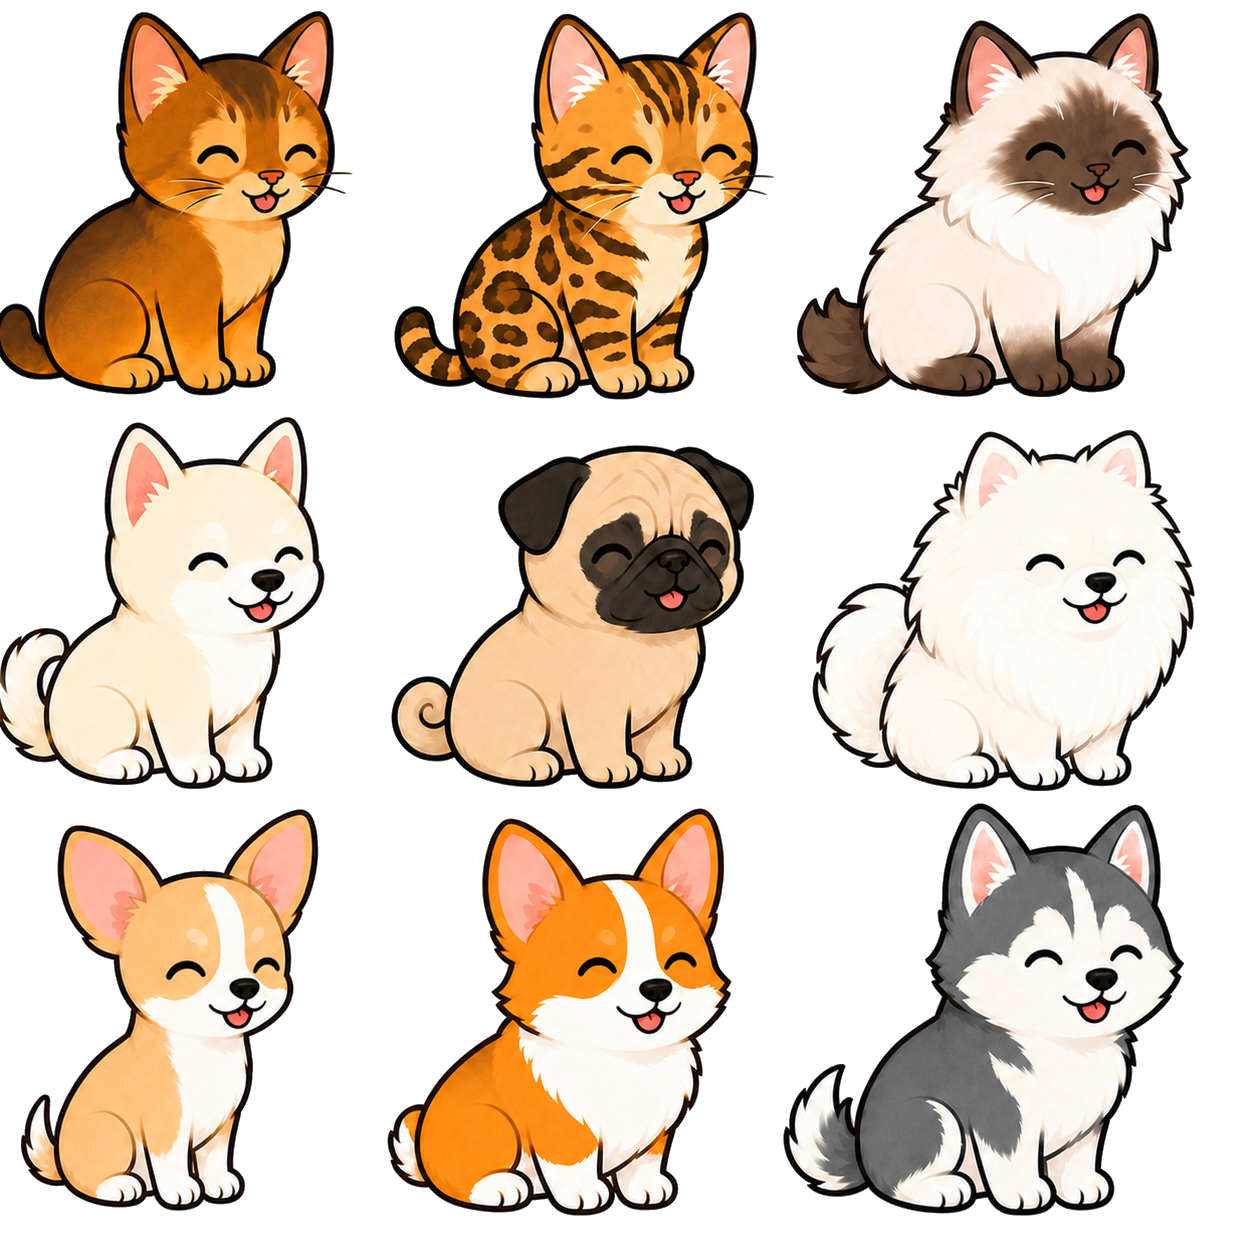
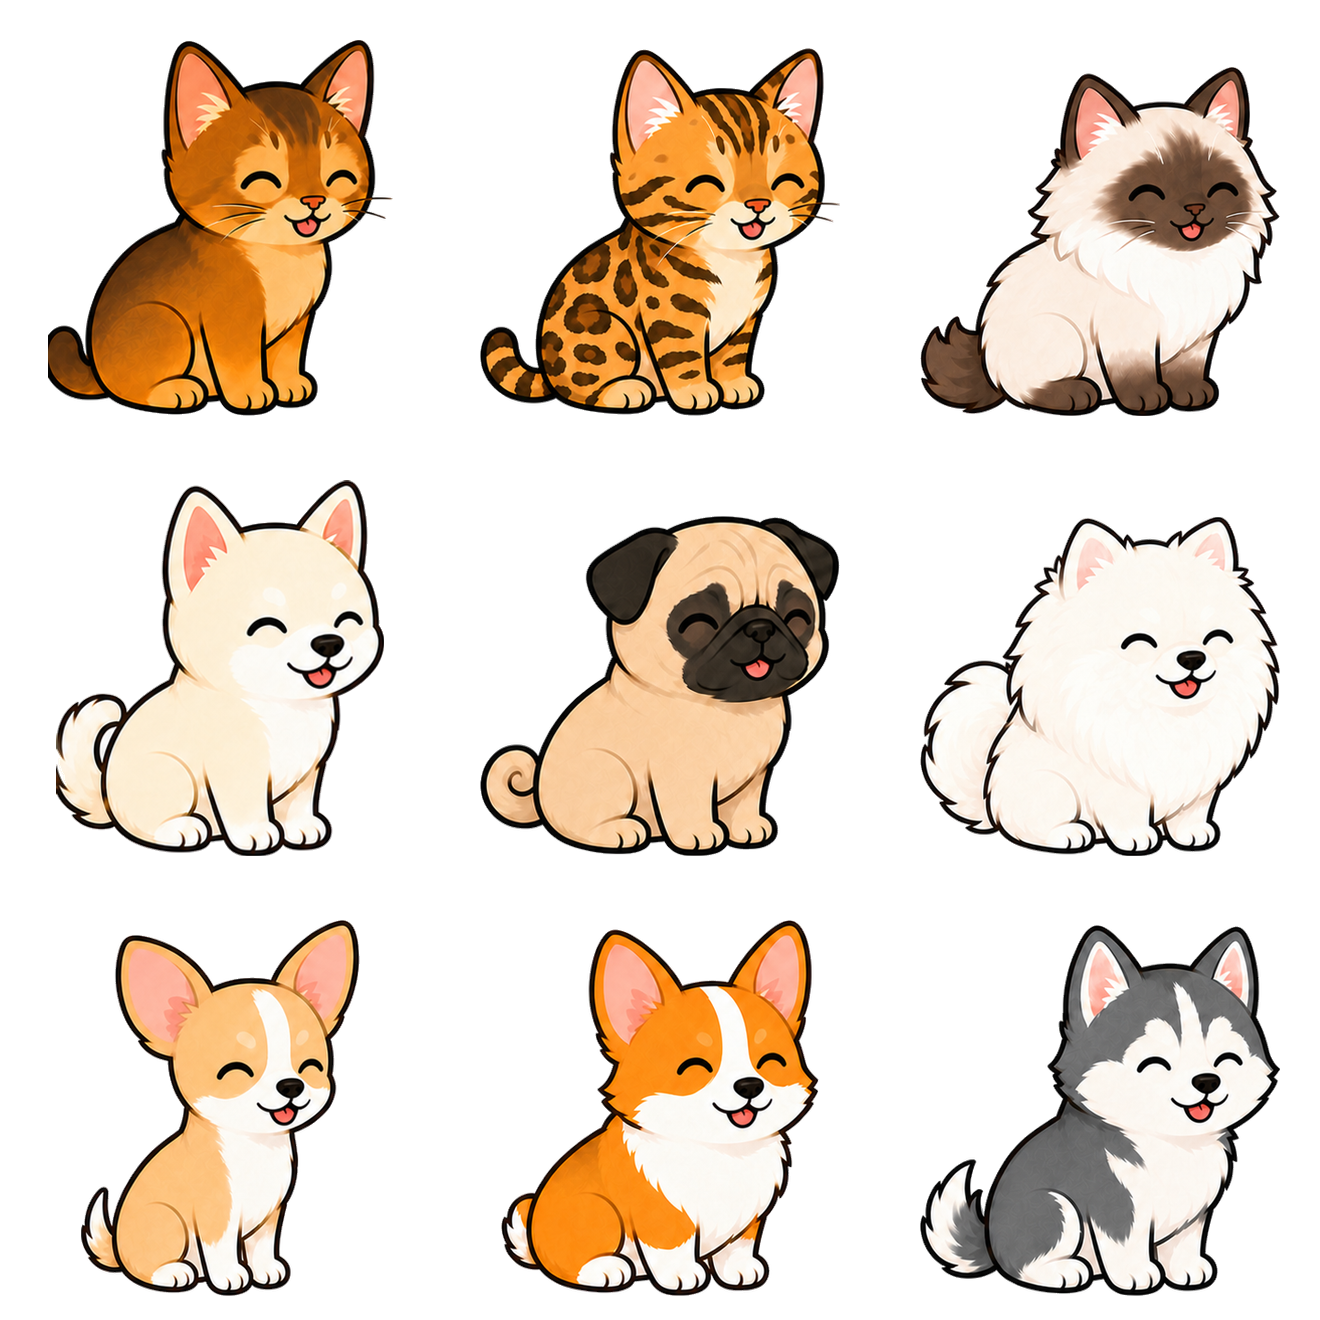
Fix character reactions and sprite framing

diff --git a/app.js b/app.js
@@ -715,19 +715,19 @@ function drawShopSpritePreview(canvas, type, item) {
       return;
     }
 
-    const padding = 2;
+    const padding = 8;
     const cropX = Math.max(0, bounds.minX - padding);
     const cropY = Math.max(0, bounds.minY - padding);
     const cropWidth = Math.min(sourceWidth, bounds.maxX + padding + 1) - cropX;
     const cropHeight = Math.min(sourceHeight, bounds.maxY + padding + 1) - cropY;
     const context = canvas.getContext("2d");
-    const maxWidth = canvas.width * 0.74;
-    const maxHeight = canvas.height * 0.84;
+    const maxWidth = canvas.width * 0.7;
+    const maxHeight = canvas.height * 0.8;
     const scale = Math.min(maxWidth / cropWidth, maxHeight / cropHeight);
     const drawWidth = cropWidth * scale;
     const drawHeight = cropHeight * scale;
     const drawX = (canvas.width - drawWidth) / 2;
-    const drawY = canvas.height - drawHeight - canvas.height * 0.035;
+    const drawY = canvas.height - drawHeight - canvas.height * 0.05;
     const flip = type === "companion" && (item.col === 1 || item.col === 2) && item.row === 0;
 
     context.clearRect(0, 0, canvas.width, canvas.height);
@@ -2927,11 +2927,15 @@ function prepareExpressionArtwork() {
     }
 
     if (!EXPRESSION_ARTWORK.good[atlasId] && isArtworkReady(atlas.happy)) {
-      EXPRESSION_ARTWORK.good[atlasId] = createMaskedArtwork(atlas.happy, atlas.neutral);
+      EXPRESSION_ARTWORK.good[atlasId] = atlasId === "extra"
+        ? atlas.happy
+        : createMaskedArtwork(atlas.happy, atlas.neutral);
     }
 
     if (!EXPRESSION_ARTWORK.bad[atlasId] && isArtworkReady(atlas.hurt)) {
-      EXPRESSION_ARTWORK.bad[atlasId] = createMaskedArtwork(atlas.hurt, atlas.neutral);
+      EXPRESSION_ARTWORK.bad[atlasId] = atlasId === "extra"
+        ? atlas.hurt
+        : createMaskedArtwork(atlas.hurt, atlas.neutral);
     }
   });
 }
@@ -3801,8 +3805,14 @@ function drawCharacterArtwork(width, height, rotation, reaction) {
     return false;
   }
 
-  const drawWidth = width * 1.28;
-  const drawHeight = height * 1.46;
+  const defaultDrawWidth = width * 1.28;
+  const defaultDrawHeight = height * 1.46;
+  const sourceWidth = (atlas.neutral.naturalWidth || atlas.neutral.width) / atlas.columns;
+  const sourceHeight = (atlas.neutral.naturalHeight || atlas.neutral.height) / atlas.rows;
+  const sourceAspect = sourceWidth / sourceHeight;
+  const defaultArea = defaultDrawWidth * defaultDrawHeight;
+  const drawWidth = atlasId === "extra" ? Math.sqrt(defaultArea * sourceAspect) : defaultDrawWidth;
+  const drawHeight = atlasId === "extra" ? drawWidth / sourceAspect : defaultDrawHeight;
   const drawLeft = -drawWidth / 2;
   const drawTop = height * 0.58 - drawHeight;
 
@@ -3815,16 +3825,18 @@ function drawCharacterArtwork(width, height, rotation, reaction) {
   ctx.save();
   applyCharacterMotion(motion, true);
   ctx.rotate(rotation);
-  drawAtlasCell(
-    atlas.neutral,
-    character,
-    atlas.columns,
-    atlas.rows,
-    drawLeft,
-    drawTop,
-    drawWidth,
-    drawHeight,
-  );
+  if (!reactionArtwork || atlasId === "main") {
+    drawAtlasCell(
+      atlas.neutral,
+      character,
+      atlas.columns,
+      atlas.rows,
+      drawLeft,
+      drawTop,
+      drawWidth,
+      drawHeight,
+    );
+  }
   if (isArtworkReady(reactionArtwork)) {
     drawAtlasCell(
       reactionArtwork,

diff --git a/server/share-service.js b/server/share-service.js
@@ -500,8 +500,8 @@ async function createShareImage(payload) {
   return sharp(backgroundBuffer)
     .composite([
       { input: createUnderlaySvg(payload), left: 0, top: 0 },
-      ...companionComposites,
       { input: characterBuffer, left: characterLeft, top: characterTop },
+      ...companionComposites,
       { input: createUiSvg(payload), left: 0, top: 0 },
     ])
     .jpeg({ quality: 86, chromaSubsampling: "4:2:0", progressive: false })
